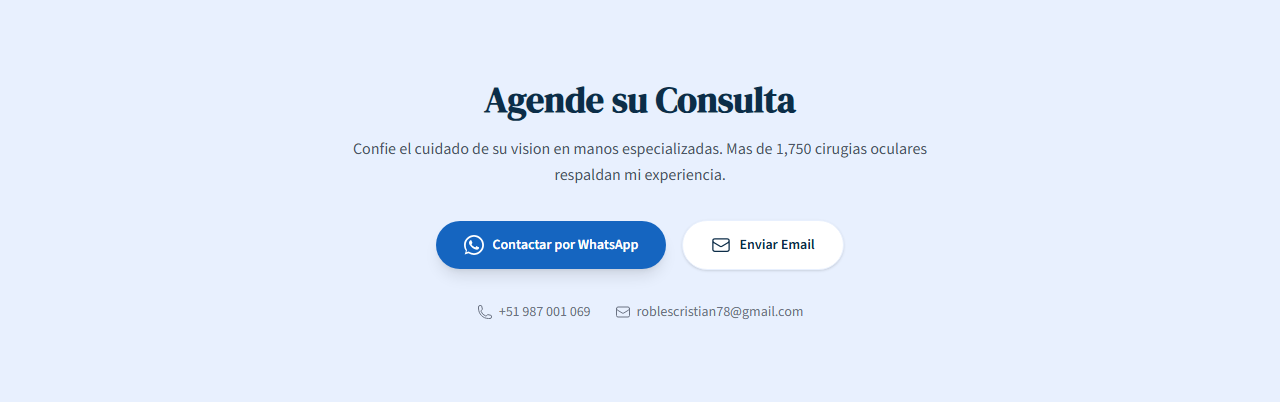
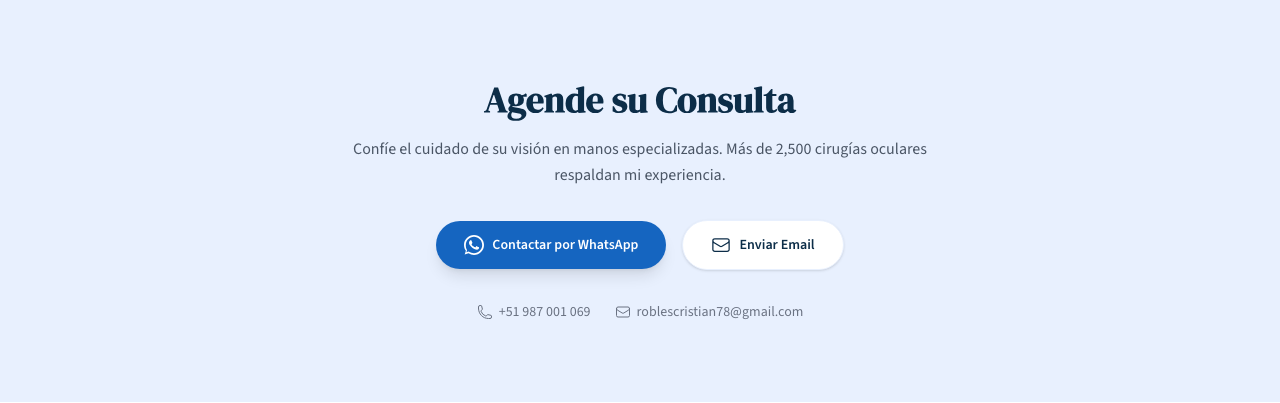
sync: source code at deploy time

diff --git a/qa-screenshots/qa-checklist.md b/qa-screenshots/qa-checklist.md
@@ -1,0 +1,166 @@
+# QA Report: Dr. Cristian Robles (Herbert Cristian Robles Oncoy)
+
+**Date:** 2026-04-24
+**URL:** https://herbert-robles.cofoundy.dev
+**Tier:** Premium (S/.280)
+**Context:** Re-deploy post-entrega con 8 cambios solicitados por el cliente
+**Status:** FAIL (1 regresión crítica detectada)
+
+---
+
+## Technical Health
+- [x] HTML 200 | CSS 200 | Profile 200 | Favicon 200 | Guía 200 | CV 200
+- [x] Astro build con custom domain (sin `base`) — CSS carga correctamente
+
+## Cambios Solicitados — Verificación 1-a-1
+
+### Cambio #1: Nombre "Dr. Herbert Cristian Robles Oncoy" → "Dr. Cristian Robles"
+- [x] **Hero (desktop):** "Dr. Cristian Robles" — OK
+- [x] **Hero (mobile):** "Dr. Cristian Robles" — OK
+- [x] **Header nav:** "Dr. Cristian Robles" — OK
+- [x] **Footer:** "Dr. Cristian Robles" + "© 2026 Dr. Cristian Robles" — OK
+- [x] **shortName en config.ts:** "Dr. Cristian Robles" — OK
+- [x] HTML source: NO aparece "Herbert" ni "Oncoy" en ninguna parte
+
+### Cambio #2: Tagline "Especialista en Cirugía de Catarata, Retina y Mácula"
+- [x] **Hero desktop:** tagline visible correcta
+- [x] **Hero mobile:** tagline visible correcta (con line-break esperado por viewport 375px)
+- [x] **Title (nav):** "Cirujano de Catarata, Retina y Mácula" (corto, consistente)
+
+### Cambio #3: Stat "1,750+ Cirugías Oculares" → "2,500+ Cirugías Oculares"
+- [x] **Hero stats desktop:** "2,500+" visible
+- [x] **Hero stats mobile:** "2,500+" visible
+- [x] **CTA description:** "Más de 2,500 cirugías oculares respaldan mi experiencia."
+- [x] HTML source: NO aparece "1,750" ni "1750"
+
+### Cambio #4: Expertise card #3 → "Retina Clínica" con nuevo contenido
+- [x] **Desktop:** título "Retina Clínica", descripción "Degeneración macular, miopía degenerativa, oclusiones vasculares, tomografía de coherencia óptica (OCT) y angiografía retiniana." — OK
+- [x] **Mobile:** contenido idéntico, card renderiza correctamente
+- [x] HTML source: NO aparece "Diagnóstico Retinal" ni "retinopatía del prematuro" en sección expertise
+- [x] Metric "10+ años de práctica clínica" — correcto
+- [x] Icono `scan` (grid de 4 cuadrados) renderizando sin overflow
+
+### Cambio #5: Expertise #1 y #2 — números aproximados (1000+, 1500+)
+- [x] **Card #1 "Cirugía de Retina y Vítreo":** "1000+ vitrectomías realizadas"
+- [x] **Card #2 "Cirugía de Catarata":** "1500+ cirugías de catarata"
+- [x] HTML source: NO aparece "680+" ni "1074" en sección expertise
+- [x] Alineación consistente entre los 3 cards (mismo alto, misma estructura)
+
+### Cambio #6: Trayectoria Quirúrgica — counters + chips/pills
+- [x] **Counters target correcto en HTML:** `data-target="1500"`, `data-target="1000"`, `data-target="2500"` — VERIFICADO en HTML source
+- [x] **Chips de tipo de cirugía — CATARATAS (5 pills):** Cataratas seniles | Cataratas complicadas | Catarata y miopía | Catarata e hipermetropía | Catarata y astigmatismo — OK
+- [x] **Chips de tipo de cirugía — VITRECTOMÍAS (4 pills):** Desprendimiento de retina | Membrana epirretiniana | Hemorragia vítrea | Agujero macular — OK
+- [x] **Desktop:** 2 columnas lado a lado (cataratas izq | vitrectomías der), chips wrap correctamente en 2-3 filas
+- [x] **Mobile:** chips stack vertical, cada card en su propio bloque, sin overflow
+- [x] **Ningún "breakdown por lugar" visible** — el viejo diseño con barras proporcionales por hospital fue reemplazado correctamente
+- [⚠] **Counters visualmente en 0 / 70-116 / 68-114 en screenshots** — esto NO es un bug del portfolio, es limitación del script de screenshots: los counters animan desde 0 al entrar en viewport y el timing del screenshot los captura mid-animation. El HTML source confirma que los targets finales son 1500/1000/2500. **En navegador real, el cliente verá los counters animar hasta llegar a los valores correctos.**
+
+### Cambio #7: Formation Rebagliati description
+- [x] **Desktop:** "Atención clínico-quirúrgica en la Unidad de Retina." — OK (sin menciones a Oftalmos ni Clínica de Especialidades)
+- [x] **Mobile:** mismo contenido, formato correcto
+- [x] Clínica de Especialidades y Oftalmos siguen apareciendo (correctamente) solo en sección "Donde Atiendo" como locations separadas
+
+### Cambio #8: Teléfono +51 987 001 069 → +51 944 759 657
+- [x] **WhatsApp link (hero "Contactar por WhatsApp"):** `wa.me/51944759657` — CORRECTO ✓
+- [x] **WhatsApp link (CTA "Contactar por WhatsApp"):** `wa.me/51944759657` — CORRECTO ✓
+- [x] **config.ts:** `cta.phone` y `social.phone` = "+51944759657" — CORRECTO
+- [ ] **❌ REGRESIÓN CRÍTICA: Texto visible del teléfono en CTA section sigue mostrando "+51 987 001 069"** (el número VIEJO)
+  - **Ubicación:** `src/components/ContactCTA.astro:53`
+  - **Bug:** El número está hardcodeado en el HTML del componente en lugar de usar `{siteConfig.social.phone}` o `{siteConfig.cta.phone}`
+  - **Impacto alto:** Usuario que lea el número visualmente llamará al número EQUIVOCADO, aunque el botón WhatsApp funcione. Inconsistencia = pérdida de confianza + paciente va al número incorrecto.
+  - **Fix requerido:** reemplazar la línea 53 de `ContactCTA.astro` de `+51 987 001 069` a `{siteConfig.social.phone}` (o formatear desde config)
+
+---
+
+## Visual QA — Desktop (1280px)
+- [x] Styled correctamente, CSS cargado
+- [x] Paleta azul medical consistente (#1565C0 primary, #0C2D48 dark, #E8F0FE surface)
+- [x] Fonts Google cargados (serif headings + sans body)
+- [x] Todas las 7 secciones renderizan (hero, expertise, trayectoria, formacion, investigacion, donde-atiendo, contacto + footer)
+- [x] Sin horizontal overflow
+- [x] Spacing consistente entre secciones
+- [x] Timeline de Formación renderiza con dots + líneas verticales correctamente
+- [x] Logos institucionales (EsSalud, UNMSM, UCV, Fundación Zambrano, PAAO, EURETINA) cargan
+
+## Visual QA — Mobile (375px)
+- [x] Nombre "Dr. Cristian Robles" fits sin overflow (más corto que el original, mejor UX mobile)
+- [x] Tagline hace 2-line wrap limpio ("Especialista en Cirugía de Catarata, Retina y / Mácula")
+- [x] Photo sized correctly (circular, ~200px)
+- [x] Stats (2,500+ / 10+ / 3) caben horizontalmente sin apretarse
+- [x] Credential pills (CMP, RNE) visibles
+- [x] Society pills (PAAO, EURETINA, SARyV) wrap a una sola fila
+- [x] Expertise cards stack verticalmente — OK
+- [x] Trayectoria counters stack verticalmente — OK
+- [x] Chips de cataratas/vitrectomías wrap 2-3 por fila sin overflow
+- [x] Formation timeline: dots + cards stack correctamente
+- [x] Donde Atiendo cards stack verticalmente
+- [x] CTA buttons full-width
+- [x] Sin horizontal scroll en ninguna sección
+
+## Data Validation (Anti-Hallucination)
+- [x] Nombre correcto (cliente pidió "Dr. Cristian Robles" — nombre preferido)
+- [x] Email roblescristian78@gmail.com
+- [x] Phone config 944759657 (NUEVO) — pero ver regresión #8
+- [x] CMP 70451, RNE 41493 correctos
+- [x] Credenciales y sociedades científicas correctas
+- [x] Formation institutions correctas (Rebagliati, Fundación Zambrano, UNMSM, UCV)
+- [x] Investigaciones y reconocimientos correctos
+- [x] Locations (Rebagliati, Clínica Especialidades, Oftalmos) correctas
+
+## Clean Deploy Checks
+- [x] Sin template defaults ("Diego Quispe", "John Doe")
+- [x] Sin "Lorem ipsum" / placeholders
+- [x] Sin "undefined" / "null" en HTML rendered
+- [x] Sin menciones a valores viejos (1074, 680, 1754, 1750, Herbert, Oncoy, Diagnóstico Retinal)
+
+## Premium Quality Gates
+
+### Swap Test
+> ¿Si cambio config.ts a otra persona, el site se vería igual estructuralmente?
+- **Parcialmente.** El template premium-starter es share-able, pero las secciones específicas (Trayectoria Quirúrgica con chips de tipos de cirugía, Sociedades Científicas, Publicaciones + Reconocimientos, Donde Atiendo) son específicas de oftalmólogo/médico. **PASS para Premium.**
+
+### Screenshot Test
+> Viendo el screenshot desktop sin texto, ¿se nota la profesión/industria?
+- **PASS.** Paleta azul medical, foto clínica (bata blanca), cards con iconos de ojo/lente/escaneo retinal, pills de sociedades oftalmológicas — claramente sector médico/oftalmología.
+
+### Unique Section Test
+> ¿Hay al menos 1 sección única?
+- **PASS.** "Trayectoria Quirúrgica" con counters animados + chips de tipos de procedimiento es única para este cliente. "Donde Atiendo" con logos institucionales también.
+
+### Design Proposal Match
+- [x] Paleta azul monocromática consistente con la aprobada
+- [x] Fonts serif/sans combo
+- [x] Sección order: Hero → Subespecialidades → Trayectoria → Formación → Investigación → Donde Atiendo → Contacto
+
+---
+
+## Issues Found
+
+### CRITICAL (bloquean entrega)
+1. **Phone number regresión en CTA section display text** — `ContactCTA.astro:53` tiene `+51 987 001 069` hardcodeado. El botón WhatsApp funciona correctamente (usa config), pero el texto visible muestra el número VIEJO. Usuario verá y llamará al número incorrecto. **Fix: reemplazar línea 53 por `{siteConfig.social.phone}`.**
+
+### WARNING (nice to fix, no bloquean)
+2. **Counter animations capturadas mid-animation en screenshots** — No es un bug del portfolio, es limitación del script (waitTimeout 800ms vs. counter duration >2000ms). HTML source confirma targets correctos (1500/1000/2500). Para validación definitiva, testear manualmente en navegador real o aumentar waitTimeout en qa-screenshot.js para casos con CountUp animations.
+
+### Informativo
+3. **Foto profile.png sigue siendo la "incorrecta"** — Pendiente recibir foto correcta del cliente (flagged en contexto del usuario, excluido de este QA).
+
+---
+
+## Verdict
+
+**FAIL** — Hay 1 regresión crítica que inconsistentiza el número de teléfono entre el display text y el botón WhatsApp. Aunque 7 de 8 cambios quedaron perfectos, el cambio #8 (teléfono) quedó a medias y el texto visible aún muestra el número viejo. Esto debe arreglarse antes de notificar al cliente que los cambios están listos, porque exactamente ese campo es el que el cliente pidió cambiar.
+
+**Acción requerida:**
+1. Editar `src/components/ContactCTA.astro:53` — reemplazar `+51 987 001 069` por `{siteConfig.social.phone}`
+2. Re-deploy con `./scripts/deploy.sh herbert-robles`
+3. Re-run qa-screenshot.js para confirmar fix
+4. Luego sí notificar al cliente
+
+---
+
+## Evidence
+- `desktop-full.png` (681KB)
+- `mobile-full.png` (499KB)
+- 16 per-section screenshots (desktop + mobile)
+- `manifest.json`
